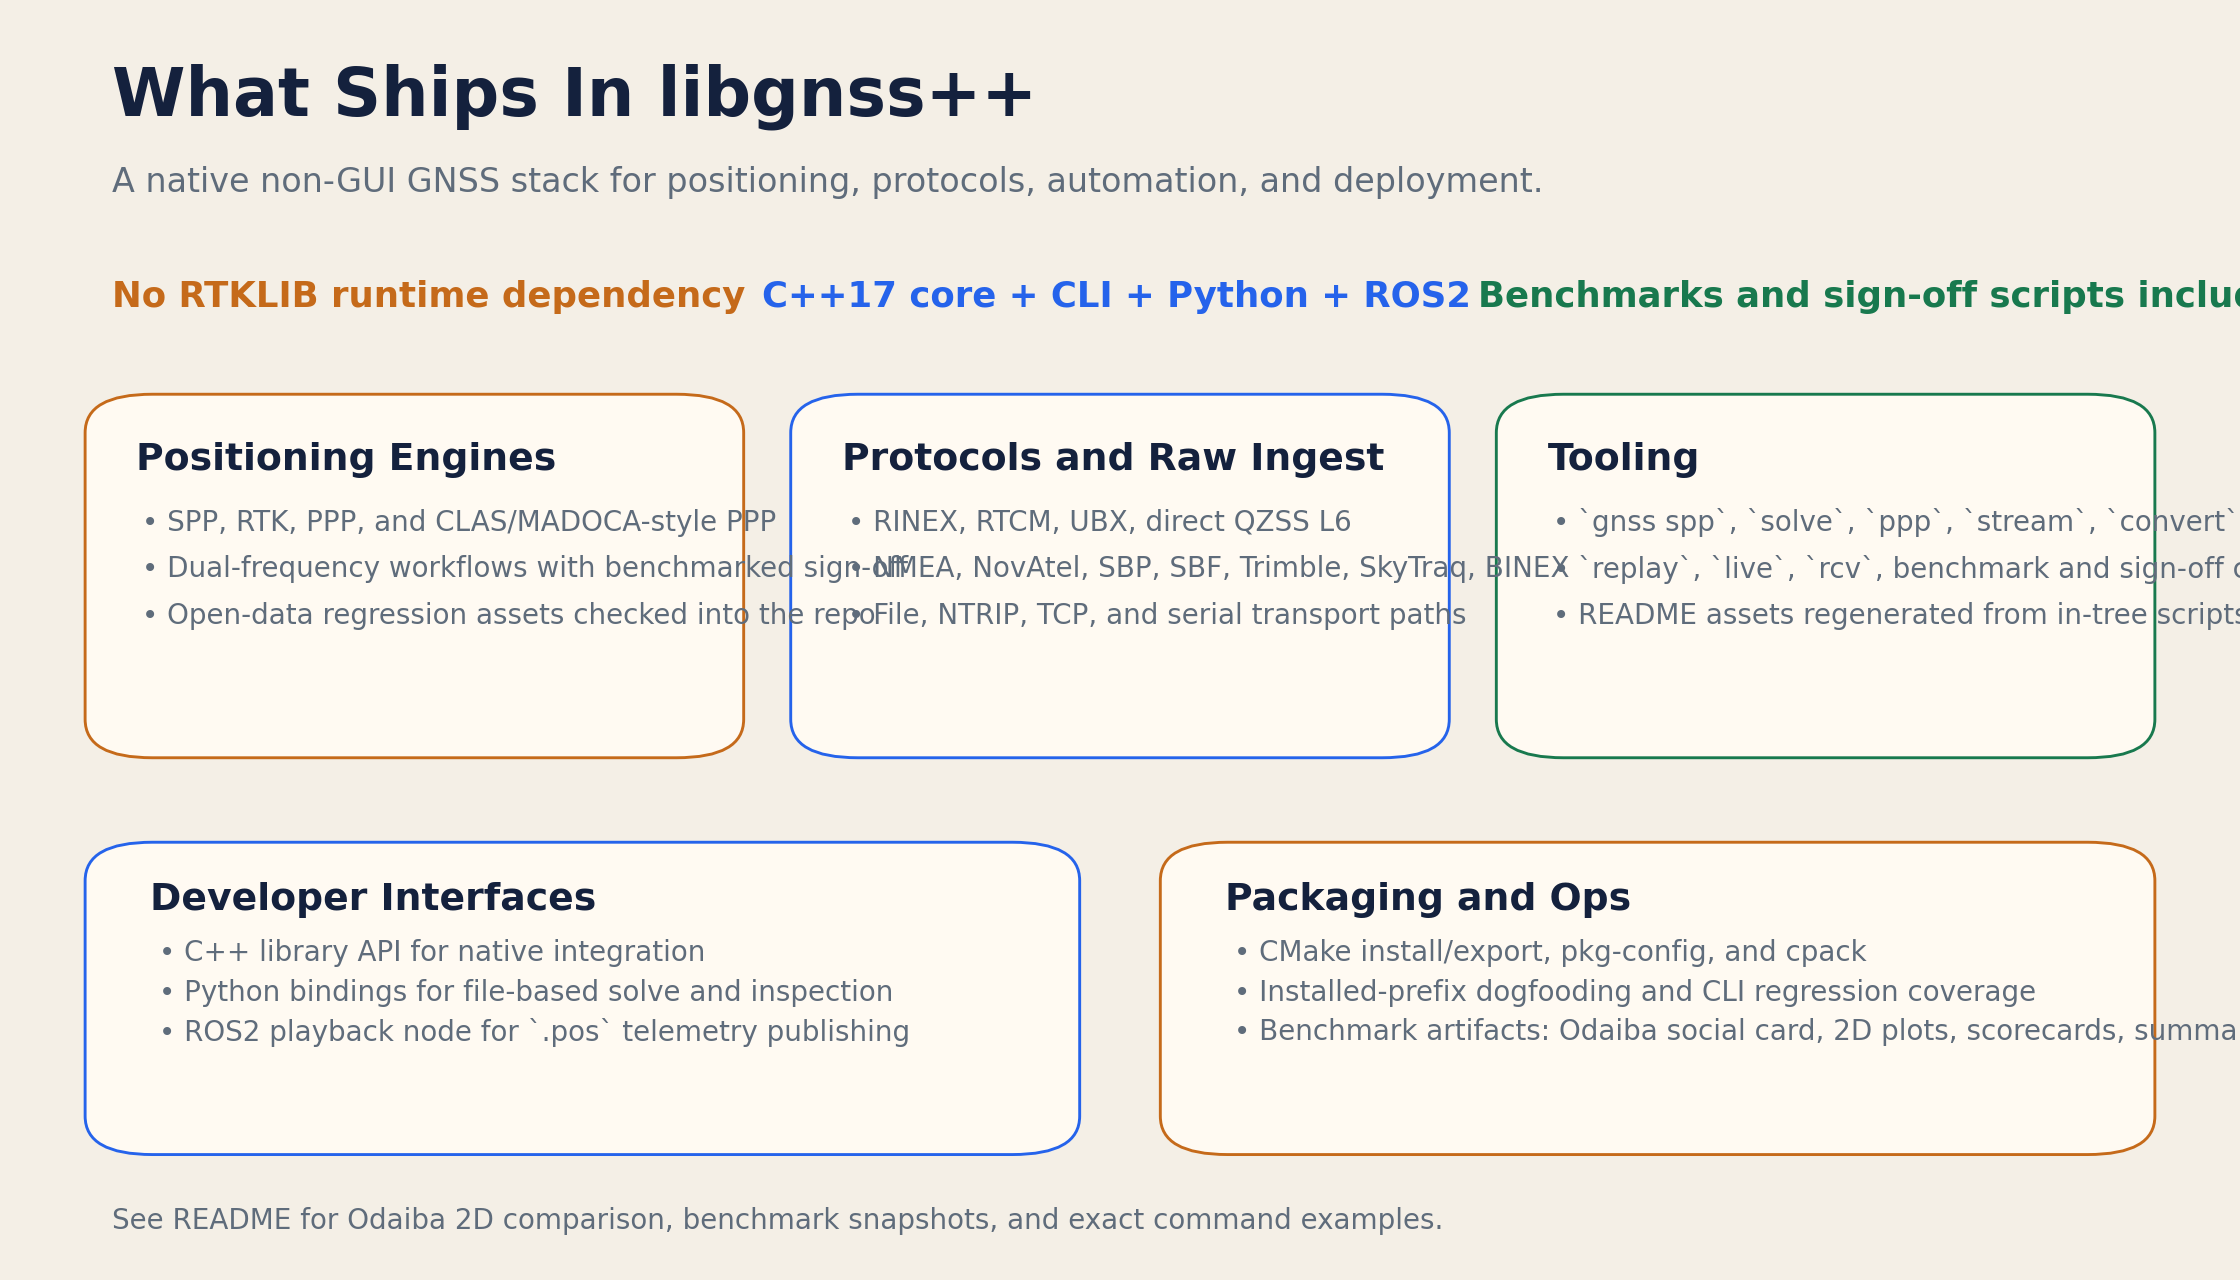
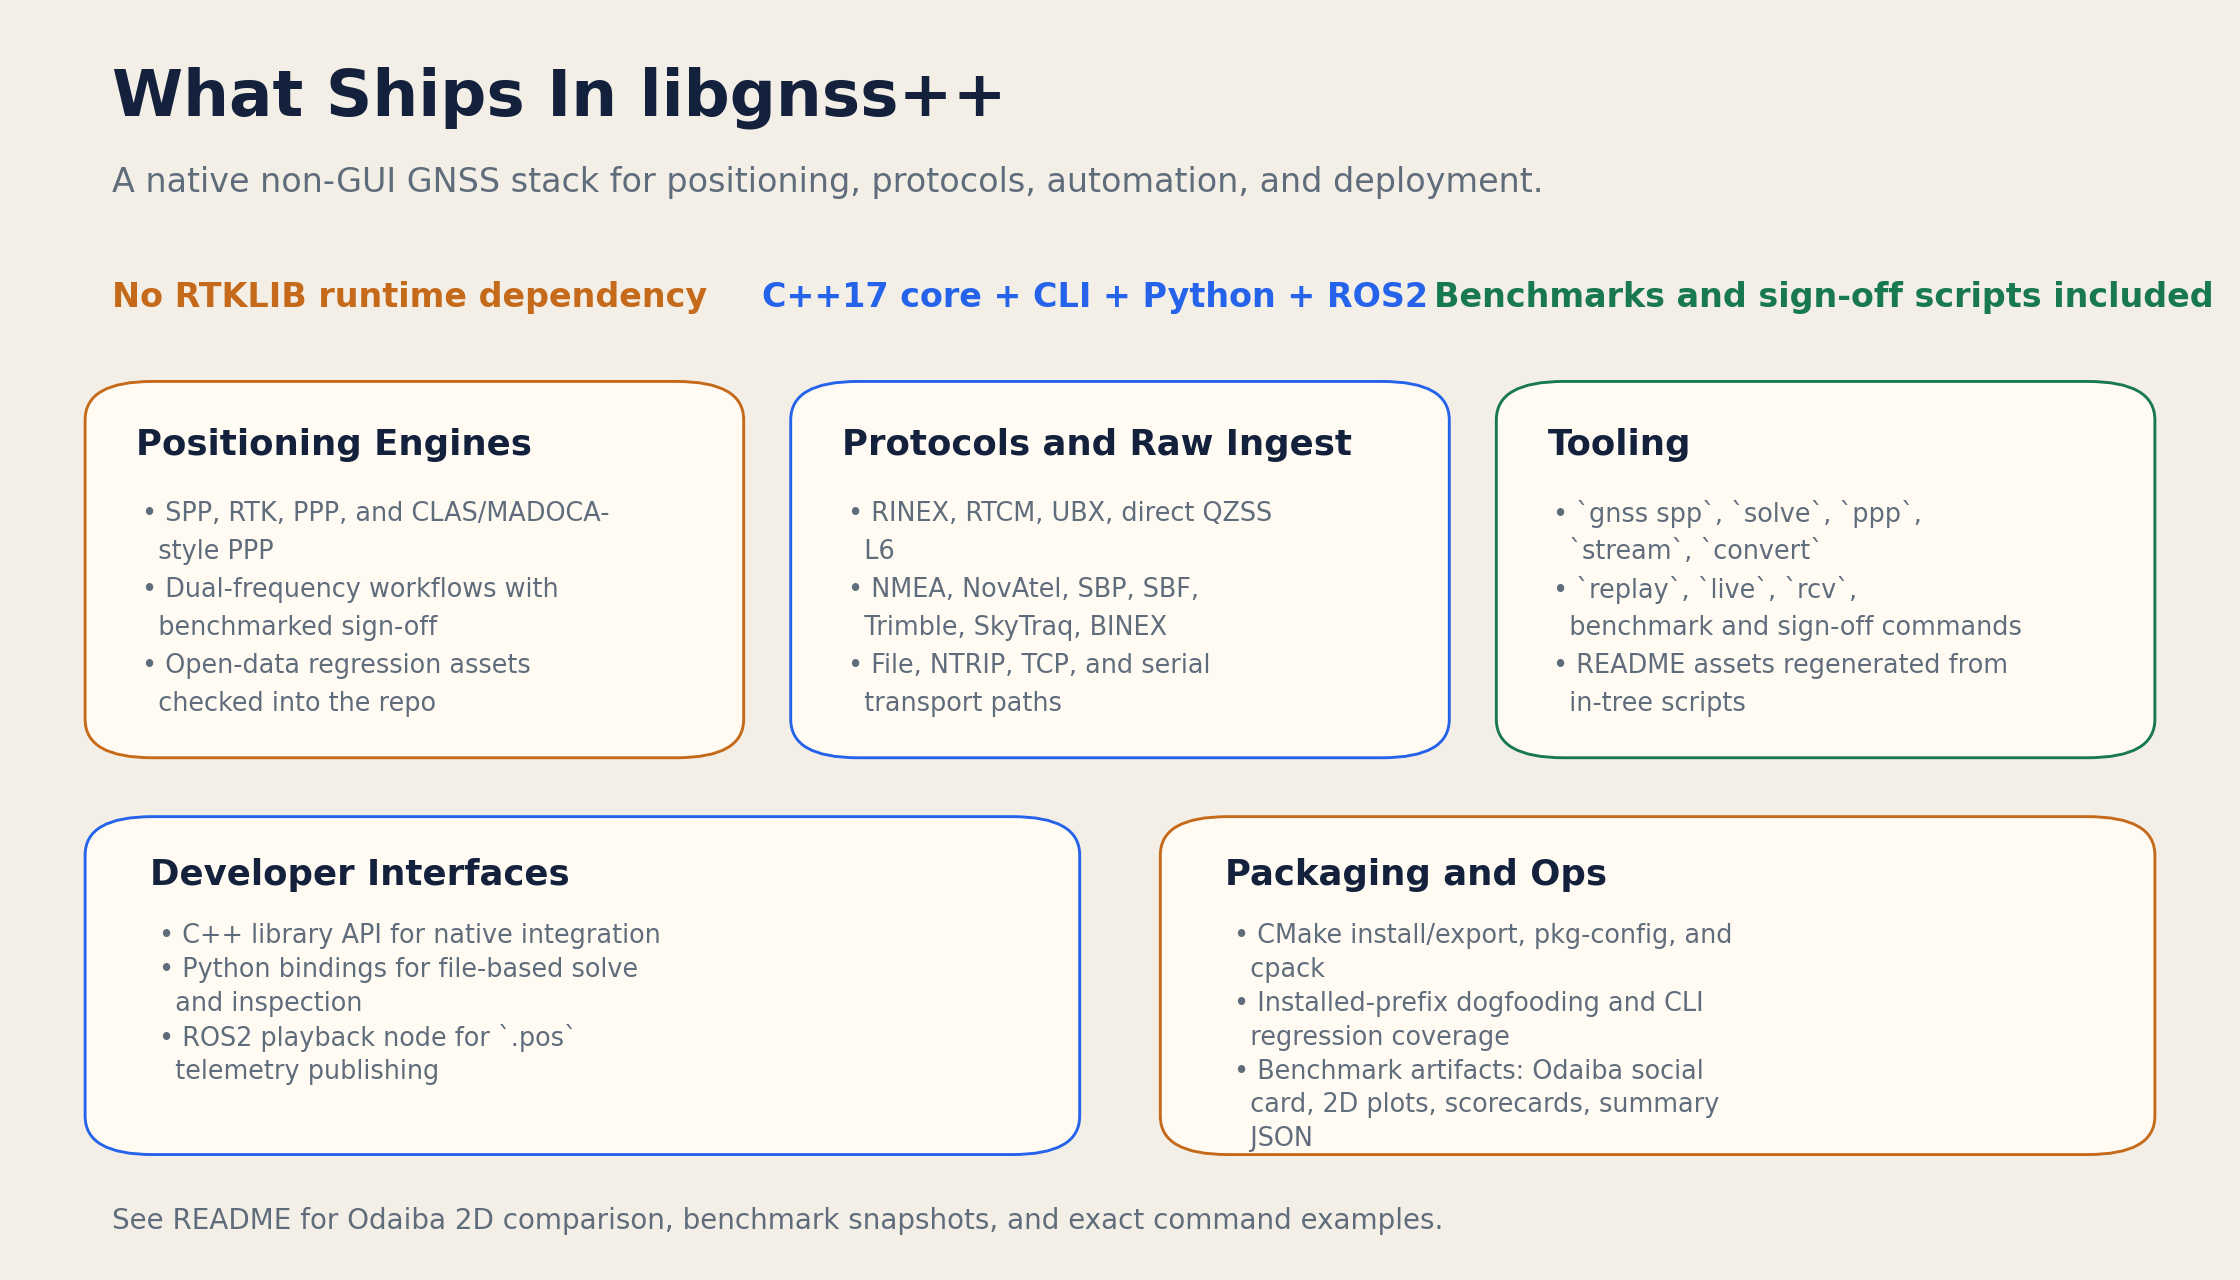
Fix feature overview card layout

diff --git a/scripts/generate_feature_overview_card.py b/scripts/generate_feature_overview_card.py
@@ -4,6 +4,7 @@
 from __future__ import annotations
 
 from pathlib import Path
+import textwrap
 
 
 BG = "#f4efe6"
@@ -13,6 +14,19 @@ MUTED = "#5f6c7b"
 ACCENT = "#c56a1a"
 ACCENT_2 = "#2563eb"
 ACCENT_3 = "#18794e"
+
+
+def wrap_lines(lines: list[str], width: int) -> list[str]:
+    wrapped: list[str] = []
+    for line in lines:
+        parts = textwrap.wrap(line, width=width)
+        if not parts:
+            wrapped.append("•")
+            continue
+        wrapped.append(f"• {parts[0]}")
+        for part in parts[1:]:
+            wrapped.append(f"  {part}")
+    return wrapped
 
 
 def add_panel(ax, x: float, y: float, w: float, h: float, title: str, lines: list[str], edge: str) -> None:
@@ -28,13 +42,16 @@ def add_panel(ax, x: float, y: float, w: float, h: float, title: str, lines: lis
         facecolor=PANEL,
     )
     ax.add_patch(patch)
-    ax.text(x + 0.04 * w, y + h - 0.15 * h, title, fontsize=17, color=TEXT, weight="bold", va="center")
-    for index, line in enumerate(lines):
+    ax.text(x + 0.04 * w, y + h - 0.14 * h, title, fontsize=16, color=TEXT, weight="bold", va="center")
+    wrapped = wrap_lines(lines, 38 if w >= 0.4 else 31)
+    line_step = 0.11 * h
+    start_y = y + h - 0.34 * h
+    for index, line in enumerate(wrapped):
         ax.text(
             x + 0.05 * w,
-            y + h - 0.34 * h - index * 0.14 * h,
-            f"• {line}",
-            fontsize=12.5,
+            start_y - index * line_step,
+            line,
+            fontsize=11.5,
             color=MUTED,
             va="center",
         )
@@ -51,7 +68,7 @@ def main() -> None:
     ax.set_xlim(0, 1)
     ax.set_ylim(0, 1)
 
-    ax.text(0.05, 0.91, "What Ships In libgnss++", fontsize=30, color=TEXT, weight="bold")
+    ax.text(0.05, 0.91, "What Ships In libgnss++", fontsize=29, color=TEXT, weight="bold")
     ax.text(
         0.05,
         0.85,
@@ -60,16 +77,16 @@ def main() -> None:
         color=MUTED,
     )
 
-    ax.text(0.05, 0.76, "No RTKLIB runtime dependency", fontsize=16, color=ACCENT, weight="bold")
-    ax.text(0.34, 0.76, "C++17 core + CLI + Python + ROS2", fontsize=16, color=ACCENT_2, weight="bold")
-    ax.text(0.66, 0.76, "Benchmarks and sign-off scripts included", fontsize=16, color=ACCENT_3, weight="bold")
+    ax.text(0.05, 0.76, "No RTKLIB runtime dependency", fontsize=15, color=ACCENT, weight="bold")
+    ax.text(0.34, 0.76, "C++17 core + CLI + Python + ROS2", fontsize=15, color=ACCENT_2, weight="bold")
+    ax.text(0.64, 0.76, "Benchmarks and sign-off scripts included", fontsize=15, color=ACCENT_3, weight="bold")
 
     add_panel(
         ax,
         0.05,
         0.42,
         0.27,
-        0.26,
+        0.27,
         "Positioning Engines",
         [
             "SPP, RTK, PPP, and CLAS/MADOCA-style PPP",
@@ -83,7 +100,7 @@ def main() -> None:
         0.365,
         0.42,
         0.27,
-        0.26,
+        0.27,
         "Protocols and Raw Ingest",
         [
             "RINEX, RTCM, UBX, direct QZSS L6",
@@ -97,7 +114,7 @@ def main() -> None:
         0.68,
         0.42,
         0.27,
-        0.26,
+        0.27,
         "Tooling",
         [
             "`gnss spp`, `solve`, `ppp`, `stream`, `convert`",
@@ -111,7 +128,7 @@ def main() -> None:
         0.05,
         0.11,
         0.42,
-        0.22,
+        0.24,
         "Developer Interfaces",
         [
             "C++ library API for native integration",
@@ -125,7 +142,7 @@ def main() -> None:
         0.53,
         0.11,
         0.42,
-        0.22,
+        0.24,
         "Packaging and Ops",
         [
             "CMake install/export, pkg-config, and cpack",
